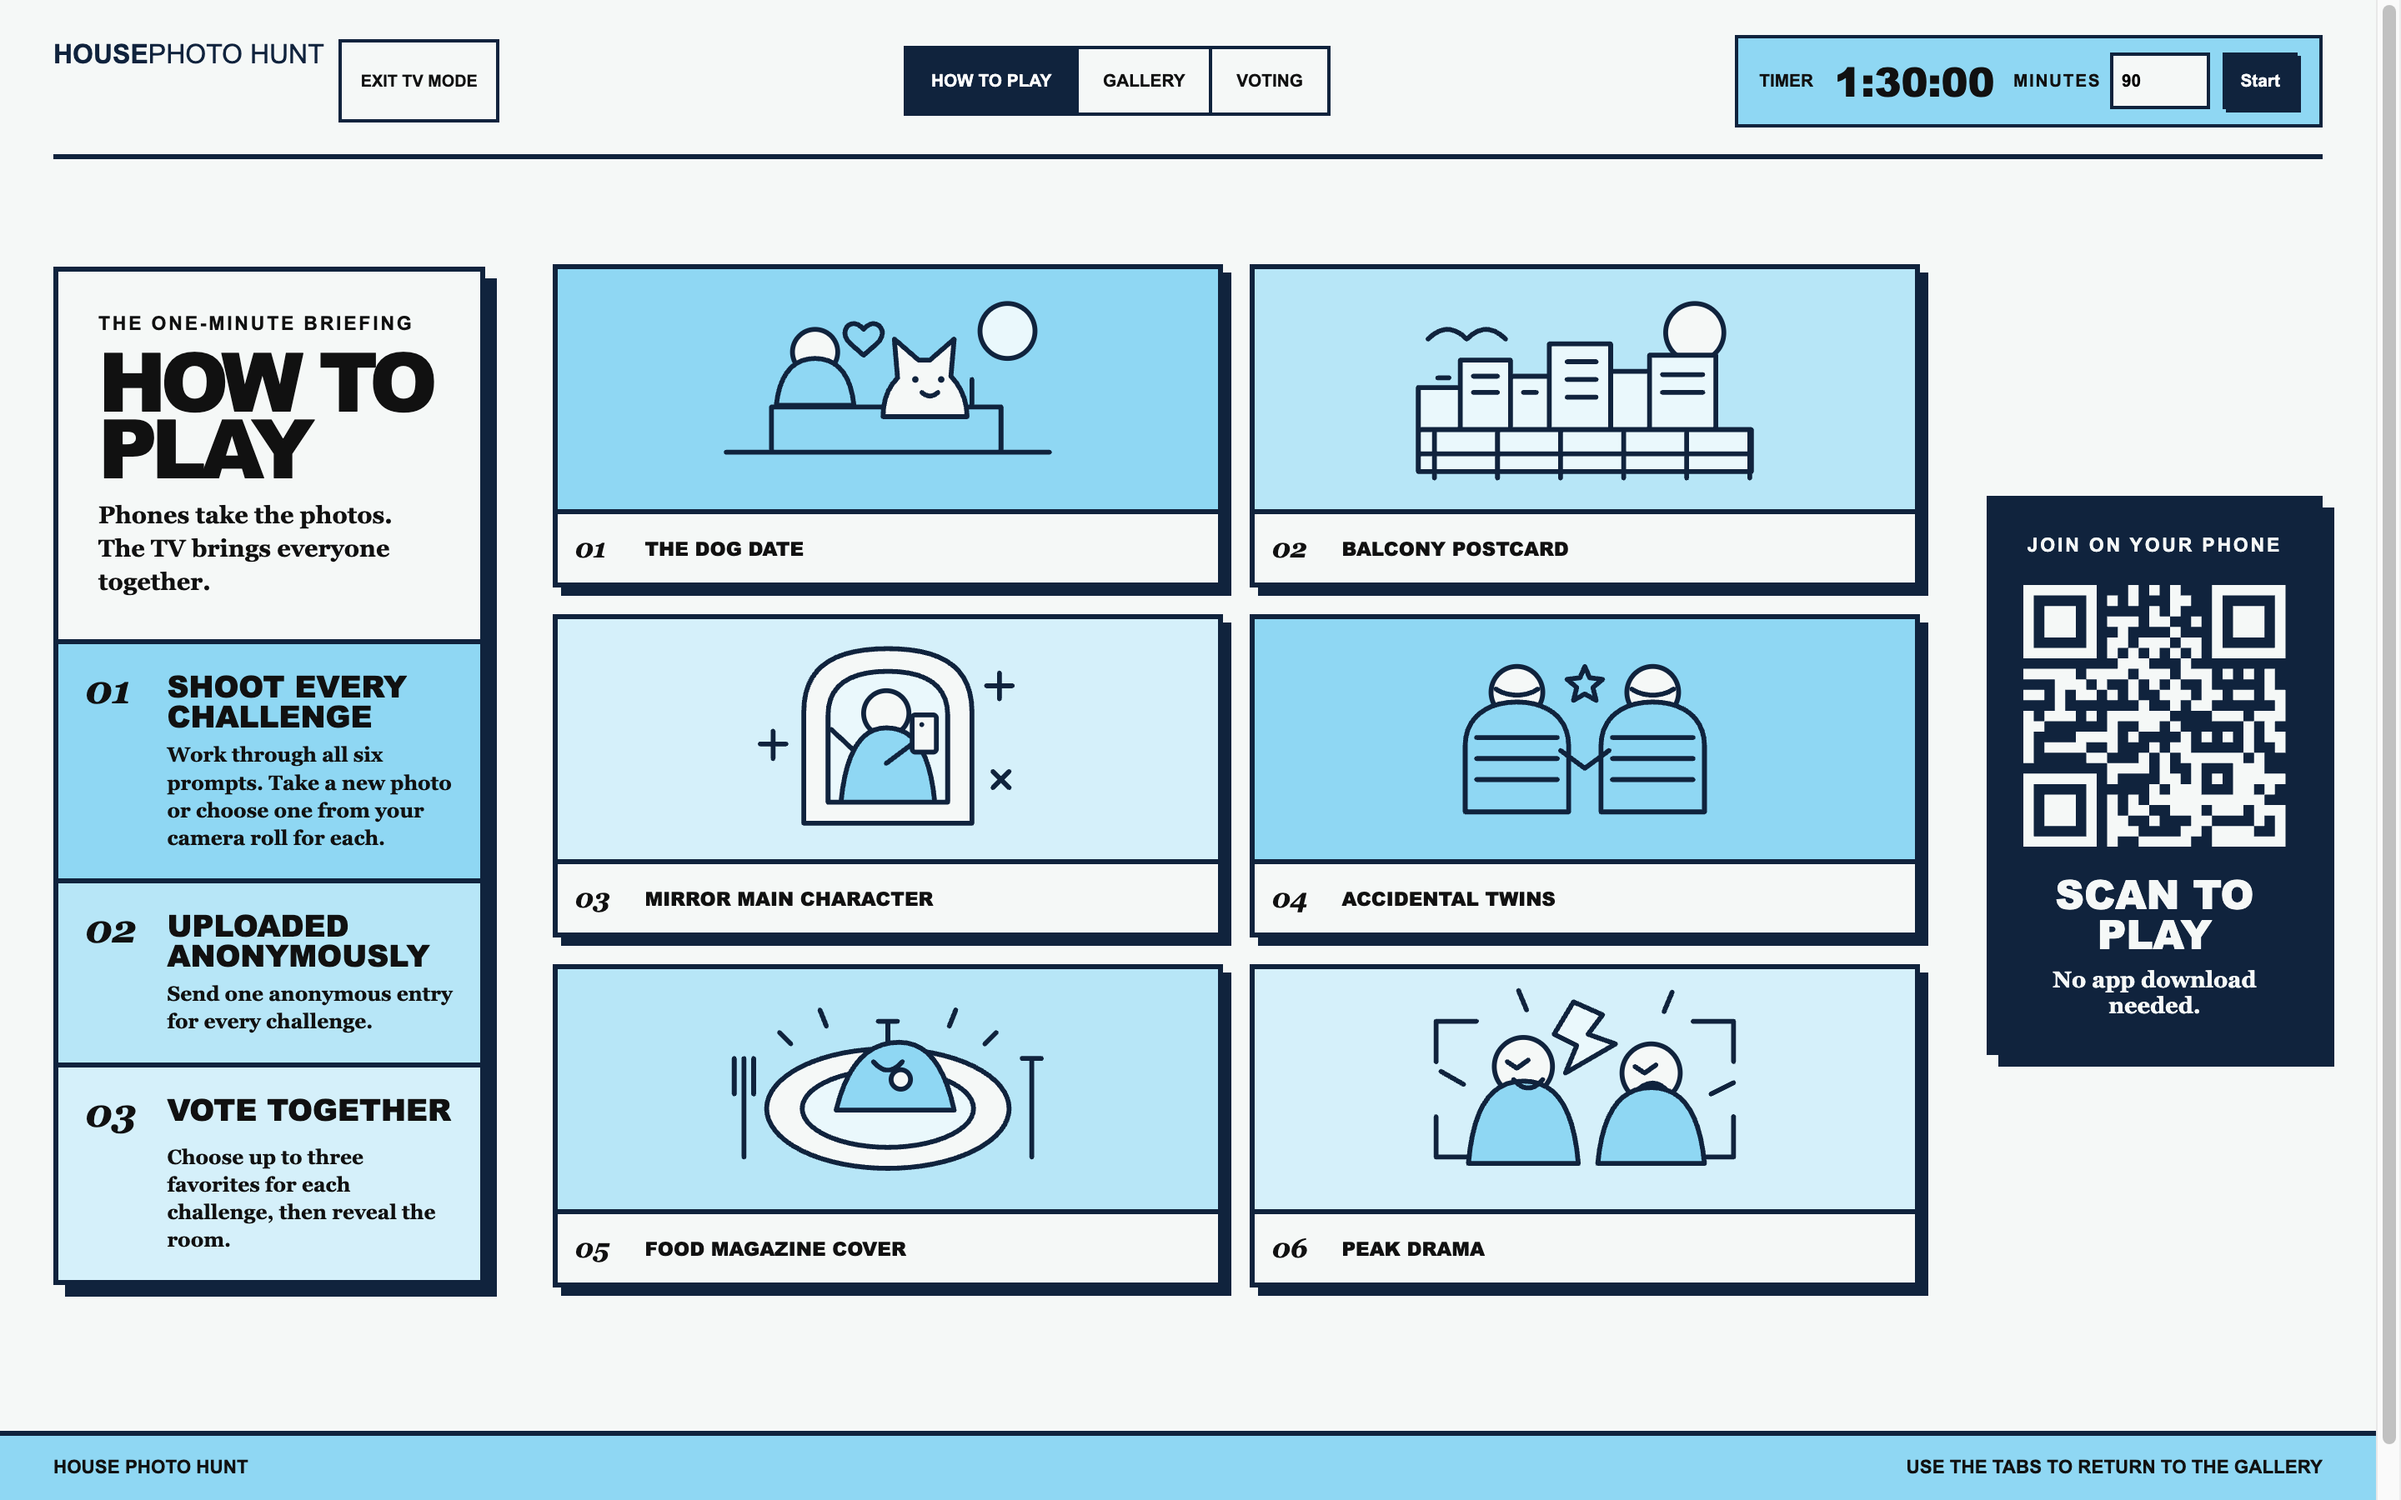
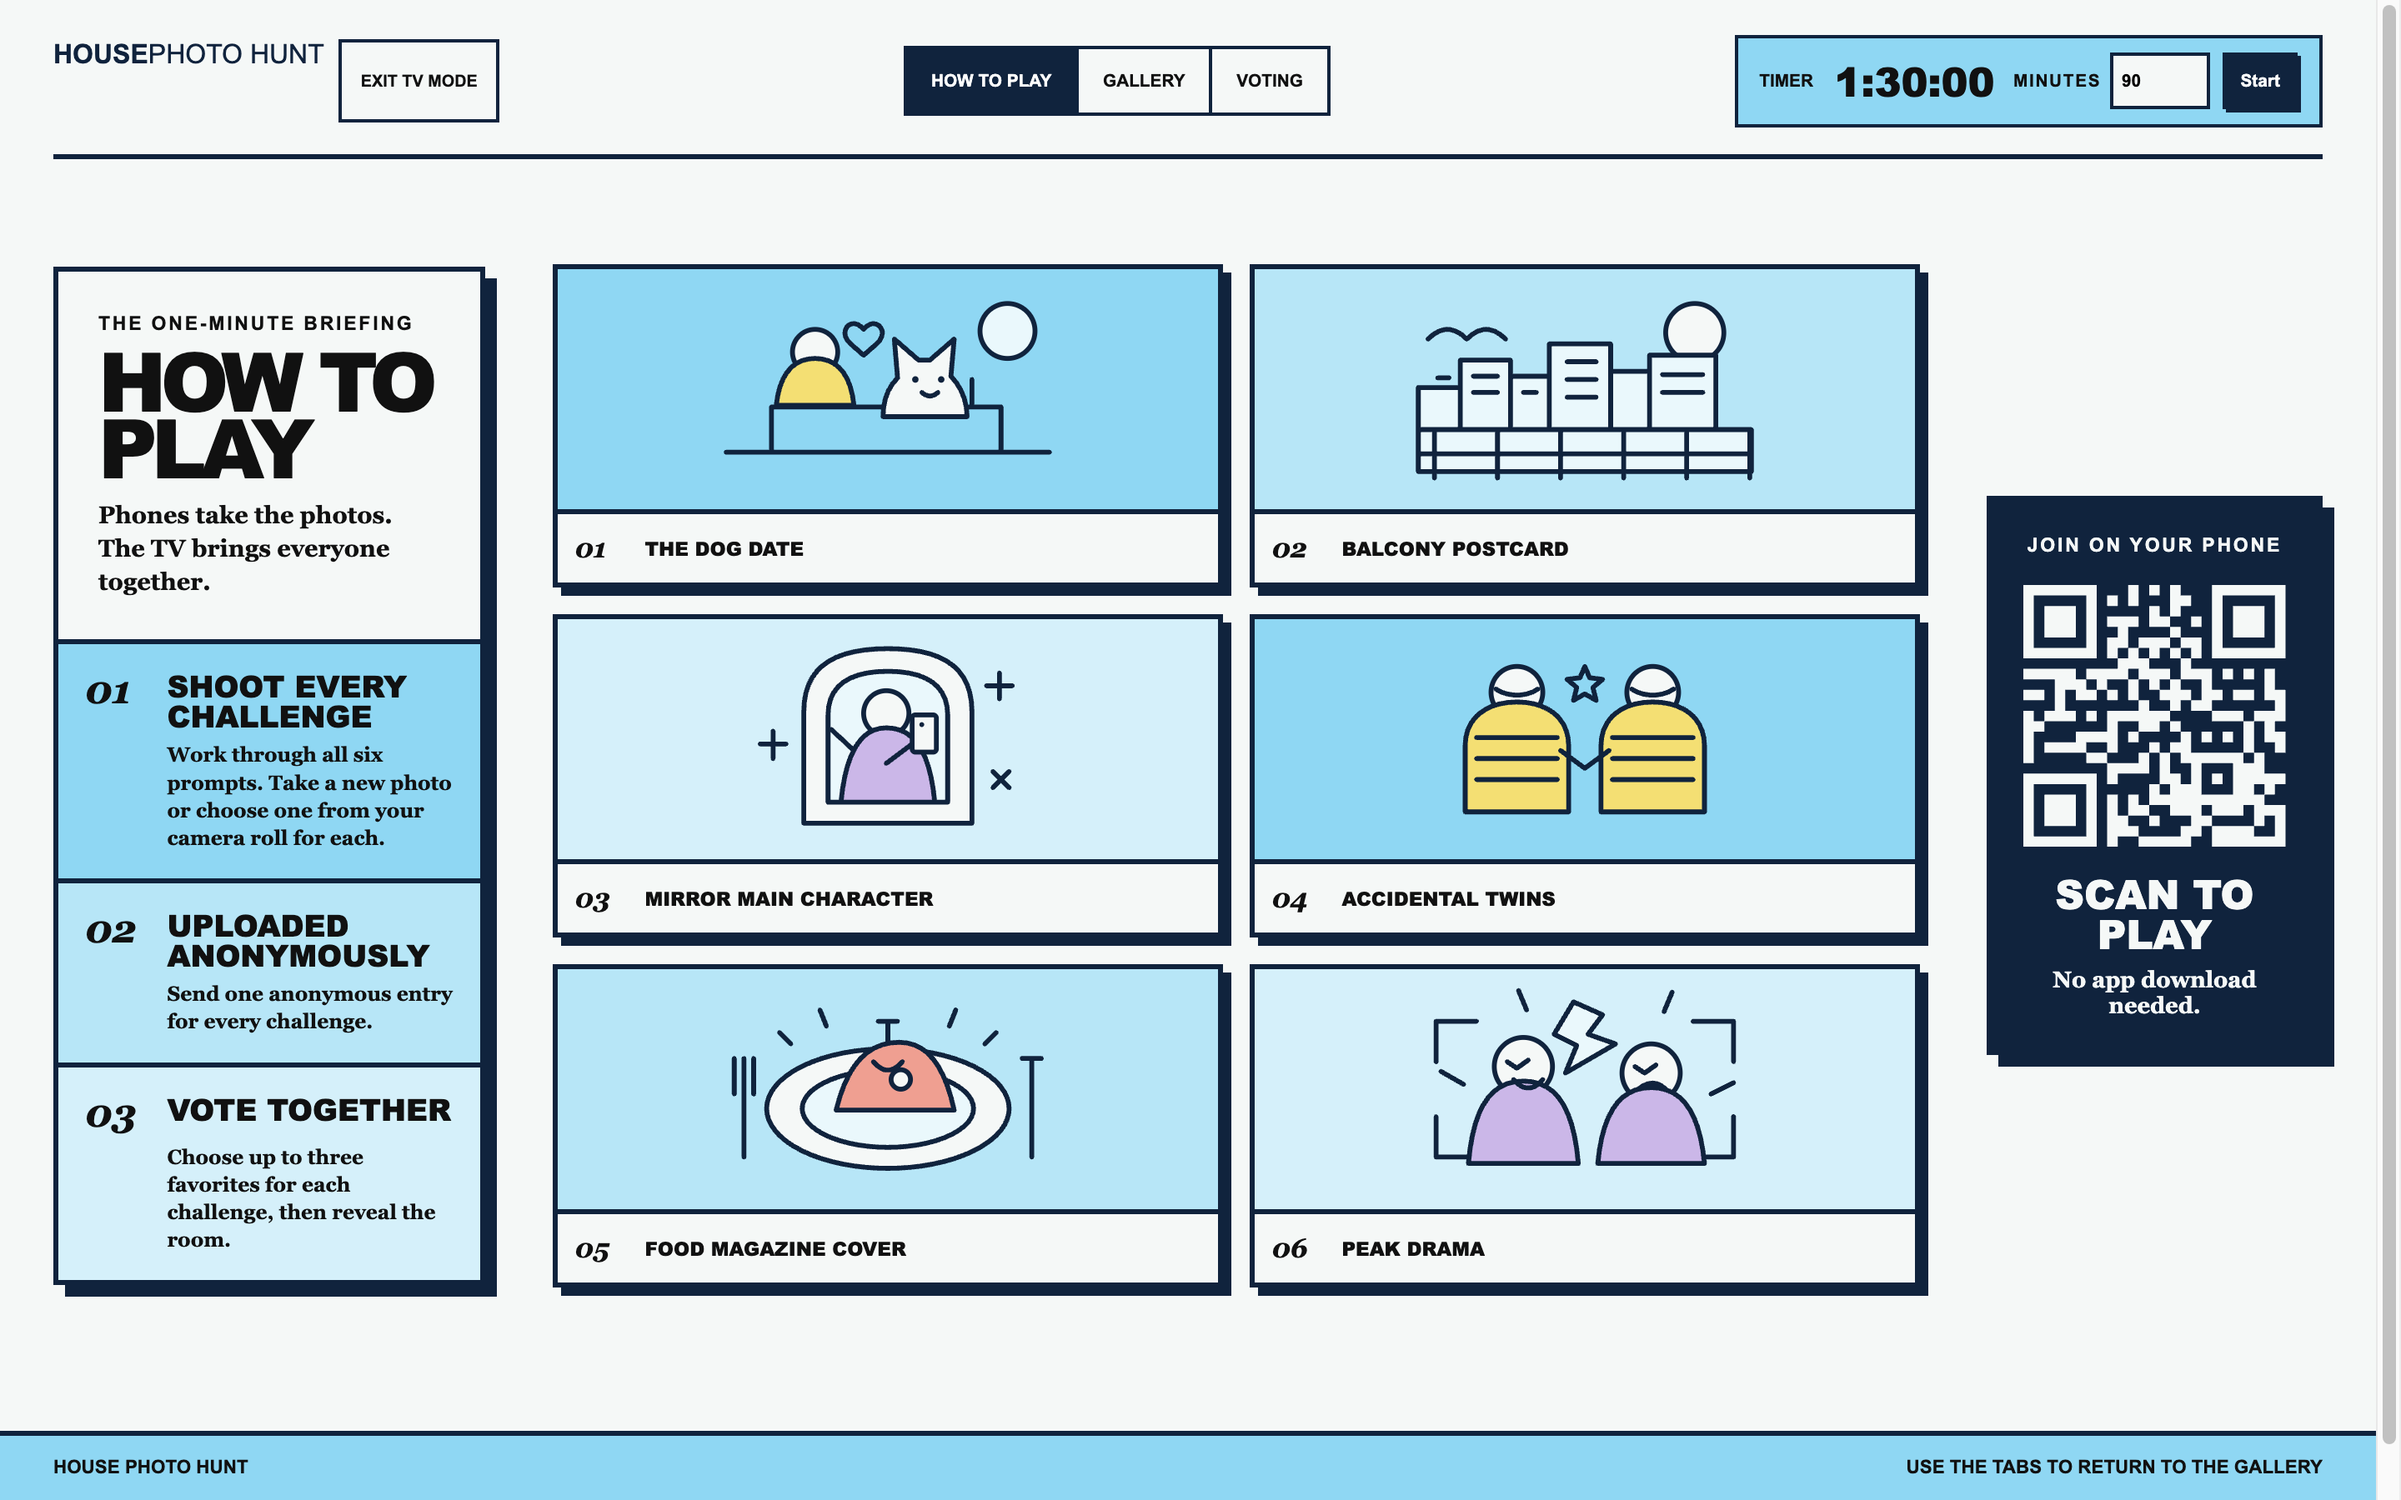
Add color accents to challenge illustrations

diff --git a/src/styles.css b/src/styles.css
@@ -259,15 +259,18 @@ img { display: block; max-width: 100%; }
 .tv-tutorial article p { grid-column: 2; margin: 0; font: 700 clamp(.72rem, .85vw, .84rem)/1.35 Georgia, serif; }
 .tv-tutorial > strong { display: block; margin-top: 1.3rem; font-size: .78rem; text-transform: uppercase; }
 .challenge-illustrations { grid-column: 2; grid-row: 1; display: grid; width: min(100%, 820px); grid-template-columns: repeat(2, minmax(0, 1fr)); align-content: center; justify-self: center; gap: clamp(.65rem, 1.2vw, 1rem); }
-.challenge-illustration { min-width: 0; overflow: hidden; margin: 0; border: var(--line); background: white; box-shadow: 5px 5px 0 var(--ink); }
-.challenge-illustration--1 { background: var(--sky); }
-.challenge-illustration--2 { background: var(--pool); }
-.challenge-illustration--3 { background: var(--powder); }
+.challenge-illustration { min-width: 0; overflow: hidden; margin: 0; border: var(--line); background: var(--illustration-bg); box-shadow: 5px 5px 0 var(--ink); }
+.challenge-illustration--1 { --illustration-bg: var(--sky); --illustration-accent: #f4df73; --illustration-light: var(--ice); }
+.challenge-illustration--2 { --illustration-bg: var(--pool); --illustration-accent: #f4b8aa; --illustration-light: var(--ice); }
+.challenge-illustration--3 { --illustration-bg: var(--powder); --illustration-accent: #cbb7e8; --illustration-light: var(--ice); }
+.challenge-illustration--4 { --illustration-bg: var(--sky); --illustration-accent: #f4df73; --illustration-light: var(--ice); }
+.challenge-illustration--5 { --illustration-bg: var(--pool); --illustration-accent: #ef9f91; --illustration-light: var(--ice); }
+.challenge-illustration--6 { --illustration-bg: var(--powder); --illustration-accent: #cbb7e8; --illustration-light: var(--ice); }
 .challenge-illustration > div { height: clamp(120px, 16vh, 170px); padding: clamp(.25rem, .6vw, .5rem); }
 .challenge-illustration svg { display: block; width: 100%; height: 100%; color: var(--ink); fill: none; stroke: currentColor; stroke-width: 3; stroke-linecap: round; stroke-linejoin: round; }
 .challenge-illustration .illustration-fill--paper { fill: var(--paper); }
-.challenge-illustration .illustration-fill--sky { fill: var(--sky); }
-.challenge-illustration .illustration-fill--light { fill: var(--ice); }
+.challenge-illustration .illustration-fill--sky { fill: var(--illustration-accent); }
+.challenge-illustration .illustration-fill--light { fill: var(--illustration-light); }
 .challenge-illustration figcaption { display: grid; min-height: 44px; grid-template-columns: 34px 1fr; align-items: center; gap: .5rem; border-top: var(--line); background: var(--paper); padding: .45rem .65rem; text-transform: uppercase; }
 .challenge-illustration figcaption span { font: italic 900 1rem/1 Georgia, serif; }
 .challenge-illustration figcaption strong { font: 900 clamp(.65rem, .8vw, .82rem)/1.05 Arial Black, Arial, sans-serif; }

diff --git a/src/components/ChallengeIllustrations.tsx b/src/components/ChallengeIllustrations.tsx
@@ -84,7 +84,7 @@ export function ChallengeIllustrations({ challenges }: { challenges: Challenge[]
     <section className="challenge-illustrations" aria-labelledby="challenge-illustrations-title">
       <h2 className="visually-hidden" id="challenge-illustrations-title">The six photo challenges</h2>
       {challenges.map((challenge, index) => (
-        <figure key={challenge.id} className={`challenge-illustration challenge-illustration--${(index % 3) + 1}`}>
+        <figure key={challenge.id} className={`challenge-illustration challenge-illustration--${index + 1}`}>
           <div role="img" aria-label={`${challenge.title}: ${challenge.prompt}`}>
             <IllustrationArt slug={challenge.slug} />
           </div>
